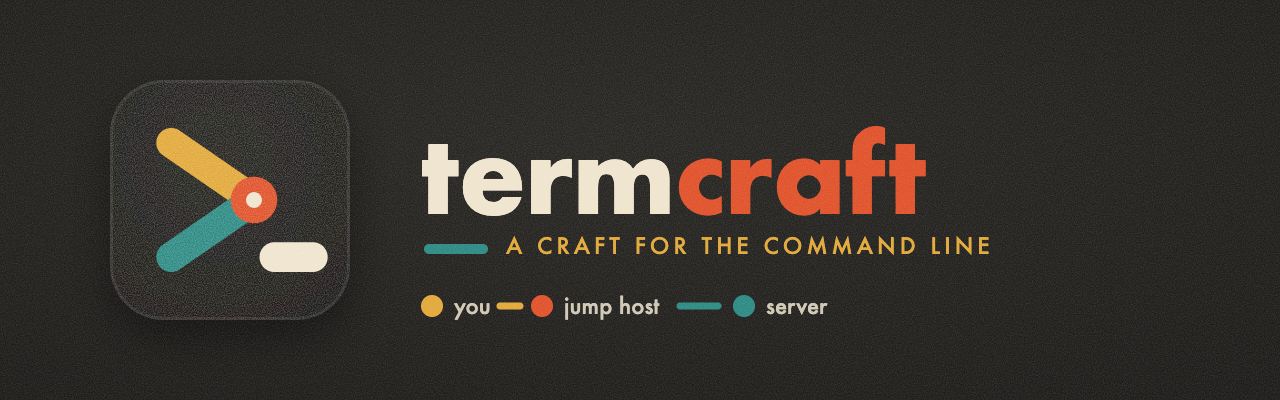
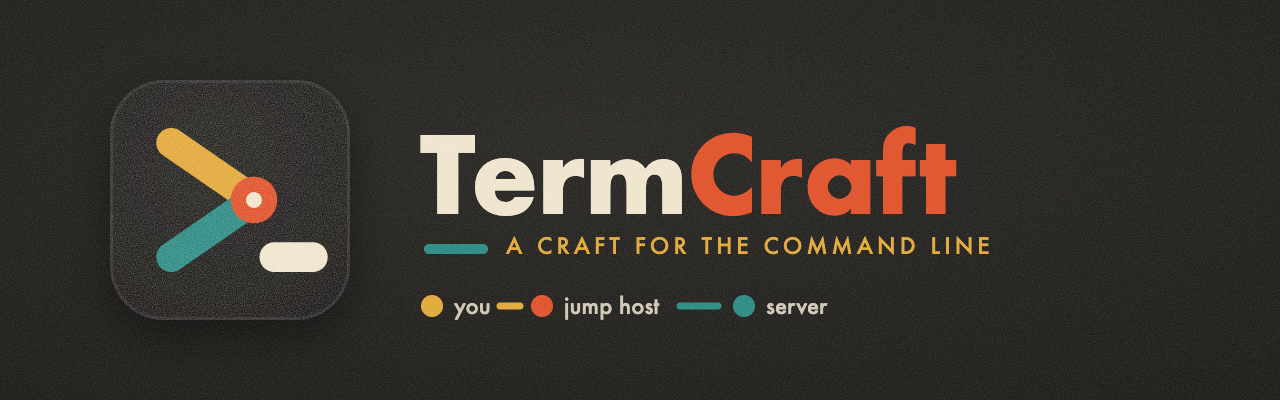
Use the name TermCraft wherever people see it
GitHub links point to figgarden/TermCraft, the README banner reads TermCraft,
and default export file names, the bundled license file and the RDP temporary
folder use TermCraft. Internal identifiers (npm package name, app ID, settings
keys, file-format tags) stay lowercase so existing settings, imports and
upgrades keep working.

Changed region(s): [[0.3125, 0.3, 0.75, 0.54]]

diff --git a/scripts/icon-art.js b/scripts/icon-art.js
@@ -99,13 +99,13 @@ function markSvg() {
 </svg>`;
 }
 
-/** README banner: the mark and a lowercase geometric wordmark on charcoal. */
+/** README banner: the mark and a geometric wordmark on charcoal. */
 function bannerSvg() {
   const id = 'tc-banner';
-  return `<svg xmlns="http://www.w3.org/2000/svg" width="1280" height="400" viewBox="0 0 1280 400" role="img" aria-label="termcraft — a craft for the command line">${defs(id)}
+  return `<svg xmlns="http://www.w3.org/2000/svg" width="1280" height="400" viewBox="0 0 1280 400" role="img" aria-label="TermCraft — a craft for the command line">${defs(id)}
   <rect width="1280" height="400" fill="url(#${id}-bg)"/>
   ${tile(id, 110, 80, 240, 54, false, true)}
-  <text x="420" y="214" font-family="${SANS}" font-size="104" font-weight="600" letter-spacing="-1" fill="${C.cream}">term<tspan fill="${C.vermilion}">craft</tspan></text>
+  <text x="420" y="214" font-family="${SANS}" font-size="104" font-weight="600" letter-spacing="-1" fill="${C.cream}">Term<tspan fill="${C.vermilion}">Craft</tspan></text>
   <path d="M429 249 H483" stroke="${C.teal}" stroke-width="10" stroke-linecap="round"/>
   <text x="506" y="254" font-family="${SANS}" font-size="22" letter-spacing="4" fill="${C.mustard}">A CRAFT FOR THE COMMAND LINE</text>
   ${[[C.mustard, 'you'], [C.vermilion, 'jump host'], [C.teal, 'server']].map(([c, t], i) => {

diff --git a/src/main/main.js b/src/main/main.js
@@ -274,7 +274,7 @@ function registerIpc() {
 
   handle('store:export', async (includeSecrets) => {
     const { canceled, filePath } = await dialog.showSaveDialog(win, {
-      title: 'Export Sessions', defaultPath: 'termcraft-sessions.json', filters: [{ name: 'JSON', extensions: ['json'] }],
+      title: 'Export Sessions', defaultPath: 'TermCraft-sessions.json', filters: [{ name: 'JSON', extensions: ['json'] }],
     });
     if (canceled) return null;
     fs.writeFileSync(filePath, JSON.stringify(store.exportSessions(includeSecrets), null, 2), { mode: 0o600 });

diff --git a/src/renderer/js/button-bars.js b/src/renderer/js/button-bars.js
@@ -297,7 +297,7 @@ export class ButtonBars {
   }
 
   async exportBars(bars) {
-    const name = bars.length === 1 ? `${bars[0].name.replace(/[^\w.-]+/g, '-')}.buttonbar.json` : 'termcraft-button-bars.json';
+    const name = bars.length === 1 ? `${bars[0].name.replace(/[^\w.-]+/g, '-')}.buttonbar.json` : 'TermCraft-button-bars.json';
     const file = await window.api.file.saveText(name, JSON.stringify({ format: 'termcraft-buttonbars', version: 1, bars }, null, 2));
     if (file) toast(`Exported to ${file}`);
   }

diff --git a/examples/scripts/multi-host-command.js b/examples/scripts/multi-host-command.js
@@ -23,6 +23,6 @@ for (const name of names.split(",").map((s) => s.trim()).filter(Boolean)) {
     results.push(`### ${name}\nERROR: ${e.message}\n`);
   }
 }
-const file = path.join(os.homedir(), `termcraft-multi-${Date.now()}.txt`);
+const file = path.join(os.homedir(), `TermCraft-multi-${Date.now()}.txt`);
 fs.writeFileSync(file, results.join("\n"));
 await tc.Dialog.MessageBox(`Saved results to ${file}`);

diff --git a/src/main/remote-desktop.js b/src/main/remote-desktop.js
@@ -197,7 +197,7 @@ class RdpService {
   constructor(deps) {
     this.deps = deps;
     this.sessions = new Map(); // tabId -> { server, route, child, file }
-    this.dir = path.join(os.tmpdir(), 'termcraft-rdp');
+    this.dir = path.join(os.tmpdir(), 'TermCraft-rdp');
   }
 
   /** Open the tunnel (if any) and launch the RDP client. */

diff --git a/README.md b/README.md
@@ -3,8 +3,8 @@
 </p>
 
 <p align="center">
-  <a href="https://github.com/figgarden/termcraft/actions/workflows/ci.yml"><img alt="CI" src="https://github.com/figgarden/termcraft/actions/workflows/ci.yml/badge.svg"></a>
-  <a href="https://github.com/figgarden/termcraft/releases/latest"><img alt="Latest release" src="https://img.shields.io/github/v/release/figgarden/termcraft?color=e0532c"></a>
+  <a href="https://github.com/figgarden/TermCraft/actions/workflows/ci.yml"><img alt="CI" src="https://github.com/figgarden/TermCraft/actions/workflows/ci.yml/badge.svg"></a>
+  <a href="https://github.com/figgarden/TermCraft/releases/latest"><img alt="Latest release" src="https://img.shields.io/github/v/release/figgarden/TermCraft?color=e0532c"></a>
   <a href="LICENSE"><img alt="License: GPL-2.0-or-later" src="https://img.shields.io/badge/license-GPL--2.0--or--later-2e8b85"></a>
   <img alt="Platforms" src="https://img.shields.io/badge/platforms-macOS%20%7C%20Windows%20%7C%20Linux-e2a93b">
 </p>
@@ -17,7 +17,7 @@
 
 ## Download
 
-Get the latest version from **[Releases](https://github.com/figgarden/termcraft/releases/latest)**:
+Get the latest version from **[Releases](https://github.com/figgarden/TermCraft/releases/latest)**:
 
 | Platform | File |
 |---|---|
